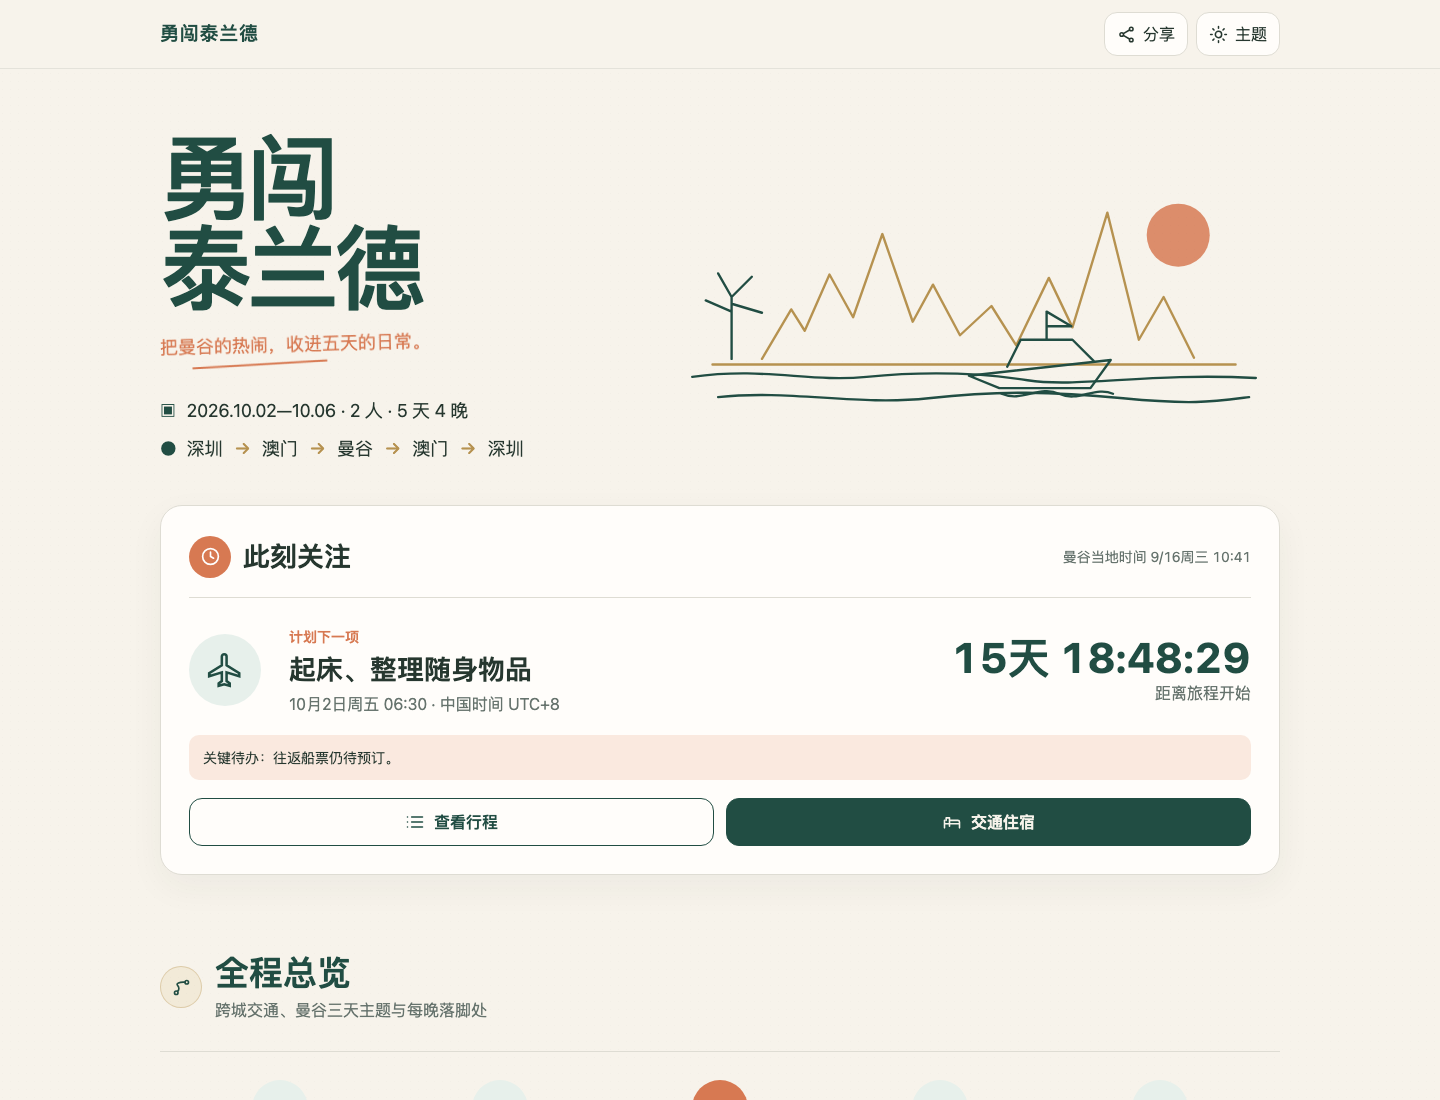
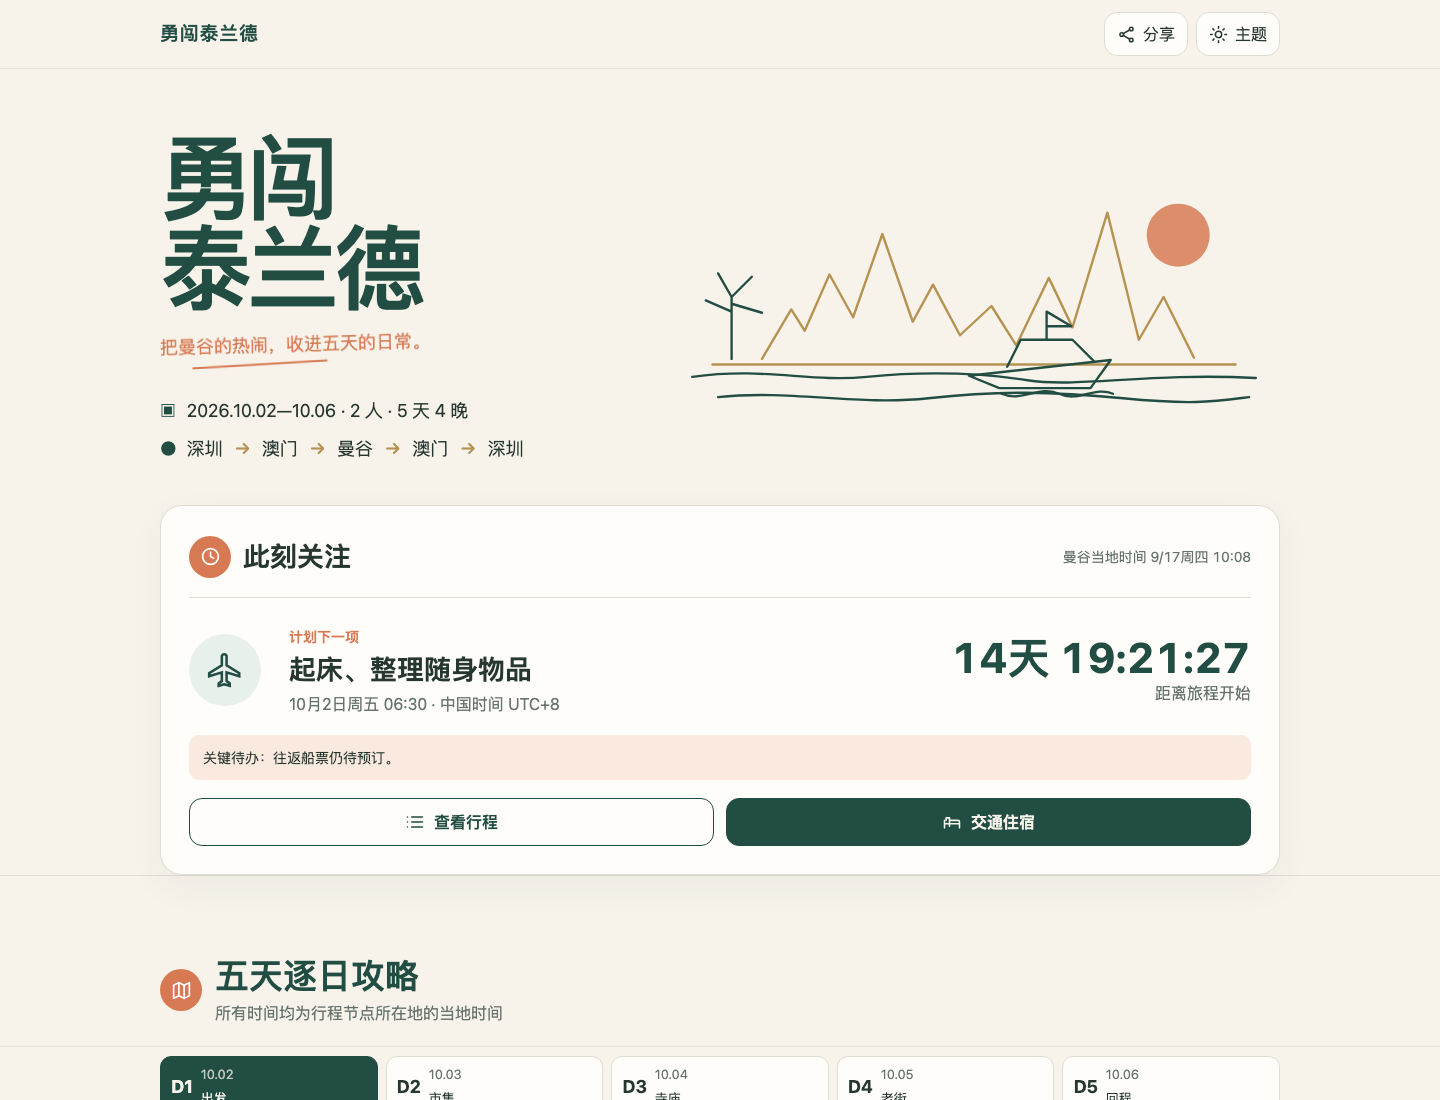
fix: 简化首页并修正手机导航
- 删除重复的全程总览模块
- 将五天逐日攻略移动到此刻关注之后
- 将底栏总览改为首页并修正滚动高亮
- 更新手机与桌面预览图及验收记录

diff --git a/index.html b/index.html
@@ -6,8 +6,8 @@
   <meta name="theme-color" content="#f7f3eb">
   <meta name="description" content="勇闯泰兰德——2026 年 10 月 2 日至 6 日，深圳、澳门与曼谷五天四晚旅行手册。">
   <title>勇闯泰兰德｜五天四晚旅行手册</title>
-  <link rel="stylesheet" href="styles.css?v=5">
-  <script src="app.js?v=5" defer></script>
+  <link rel="stylesheet" href="styles.css?v=6">
+  <script src="app.js?v=6" defer></script>
 </head>
 <body>
   <a class="skip-link" href="#main">跳到主要内容</a>
@@ -28,9 +28,9 @@
     <symbol id="i-chevron" viewBox="0 0 24 24"><path d="m9 18 6-6-6-6"/></symbol>
   </svg>
 
-  <header class="site-header" id="overview">
+  <header class="site-header">
     <div class="header-inner">
-      <a class="brand" href="#overview" aria-label="回到总览">勇闯泰兰德</a>
+      <a class="brand" href="#home" aria-label="回到首页">勇闯泰兰德</a>
       <div class="header-actions">
         <button class="icon-button" id="shareButton" type="button"><svg><use href="#i-share"/></svg><span>分享</span></button>
         <div class="theme-control">
@@ -46,7 +46,7 @@
   </header>
 
   <main id="main">
-    <section class="hero page-shell" aria-labelledby="hero-title">
+    <section class="hero page-shell" id="home" aria-labelledby="hero-title">
       <div class="hero-copy">
         <h1 id="hero-title">勇闯<br>泰兰德</h1>
         <p class="hero-note">把曼谷的热闹，收进五天的日常。</p>
@@ -91,65 +91,6 @@
           <a class="button primary" id="attentionMapLink" href="#transport"><svg><use href="#i-pin"/></svg>交通住宿</a>
         </div>
       </div>
-    </section>
-
-    <section class="overview-section page-shell section-block" aria-labelledby="route-title">
-      <div class="section-heading">
-        <span class="round-icon gold"><svg><use href="#i-route"/></svg></span>
-        <div><h2 id="route-title">全程总览</h2><p>跨城交通、曼谷三天主题与每晚落脚处</p></div>
-      </div>
-      <ol class="city-route" aria-label="城市路线示意，不代表真实比例">
-        <li><span class="city-icon">深</span><strong>深圳</strong><small>10.02 出发</small></li>
-        <li><span class="route-arrow">→</span><span class="city-icon">澳</span><strong>澳门</strong><small>10.02 中转</small></li>
-        <li class="active"><span class="route-arrow">→</span><span class="city-icon">曼</span><strong>曼谷</strong><small>10.02—10.06</small></li>
-        <li><span class="route-arrow">→</span><span class="city-icon">澳</span><strong>澳门</strong><small>10.06 返程</small></li>
-        <li><span class="route-arrow">→</span><span class="city-icon">深</span><strong>深圳</strong><small>10.06 抵达</small></li>
-      </ol>
-      <div class="bangkok-themes">
-        <article><span>D2 · 10.03</span><h3>市集与公园</h3><p>乍都乍淘货、古着商场、城市绿意</p></article>
-        <article><span>D3 · 10.04</span><h3>寺庙与河畔</h3><p>古城人文、渡船与湄南河日落</p></article>
-        <article><span>D4 · 10.05</span><h3>老街与咖啡</h3><p>Song Wat、Talat Noi、唐人街烟火</p></article>
-      </div>
-      <div class="night-strip"><svg><use href="#i-bed"/></svg><span>每晚住宿</span><strong>曼谷亚洲酒店 · 4 晚</strong><a href="#hotel-card">查看</a></div>
-    </section>
-
-    <section class="transport page-shell section-block" id="transport" aria-labelledby="transport-title">
-      <div class="section-heading">
-        <span class="round-icon gold"><svg><use href="#i-plane"/></svg></span>
-        <div><h2 id="transport-title">交通与住宿</h2><p>跨城节点与曼谷落脚处</p></div>
-      </div>
-
-      <div class="flight-ticket" aria-label="往返机票，已预订">
-        <div class="ticket-head"><strong>往返机票</strong><span class="status confirmed">已预订</span></div>
-        <article class="flight-leg">
-          <div class="leg-label"><span>去程</span><time datetime="2026-10-02">10 月 2 日</time></div>
-          <div class="airport"><small>澳门 MFM · UTC+8</small><strong>14:15</strong></div>
-          <div class="flight-line"><svg><use href="#i-plane"/></svg><span>FD763</span><small>2 小时 50 分</small></div>
-          <div class="airport right"><small>曼谷 DMK · UTC+7</small><strong>16:05</strong></div>
-        </article>
-        <article class="flight-leg">
-          <div class="leg-label"><span>回程</span><time datetime="2026-10-06">10 月 6 日</time></div>
-          <div class="airport"><small>曼谷 DMK · UTC+7</small><strong>10:00</strong></div>
-          <div class="flight-line"><svg><use href="#i-plane"/></svg><span>航班号待补</span><small>2 小时 45 分</small></div>
-          <div class="airport right"><small>澳门 MFM · UTC+8</small><strong>13:45</strong></div>
-        </article>
-      </div>
-
-      <article class="hotel-card" id="hotel-card">
-        <div class="hotel-art" aria-hidden="true"><svg viewBox="0 0 160 140"><path d="M34 120V28h78v92M25 120h104M48 45h12m14 0h12m14 0h12M48 64h12m14 0h12m14 0h12M48 83h12m14 0h12m14 0h12M66 120V99h18v21M18 120c8-24 16-32 24-38M126 120c-3-18-8-31-17-40"/></svg></div>
-        <div class="hotel-copy">
-          <div class="card-title-row"><div><small>酒店住宿</small><h3>曼谷亚洲酒店</h3><p>Asia Hotel Bangkok</p></div><span class="status confirmed">已预订</span></div>
-          <dl class="hotel-facts"><div><dt>入住</dt><dd>10 月 2 日 · 19:00 办理</dd></div><div><dt>退房</dt><dd>10 月 6 日 · 共 4 晚</dd></div><div><dt>同行</dt><dd>2 人</dd></div></dl>
-          <address>296 Thanon Phaya Thai, Ratchathewi, Bangkok 10400</address>
-          <div class="inline-actions"><button class="text-action" type="button" data-copy="Asia Hotel Bangkok\n296 Thanon Phaya Thai, Ratchathewi, Bangkok 10400">复制名称与地址</button><a class="text-action" href="https://www.google.com/maps/search/?api=1&query=Asia%20Hotel%20Bangkok" target="_blank" rel="noreferrer">地图导航</a><a class="text-action" href="tel:+6622170808">拨打电话</a></div>
-          <p class="verification-note">地址与电话请在出发前按最终订单再次核对。</p>
-        </div>
-      </article>
-
-      <article class="ferry-card">
-        <div class="ferry-title"><svg><use href="#i-boat"/></svg><div><h3>机场码头往返船班</h3><p>候选方案，实际班次与候船要求待核实</p></div><span class="status pending">待预订</span></div>
-        <div class="ferry-legs"><p><strong>去程 · 10.02</strong><span>08:45—10:05</span><small>深圳机场码头 → 澳门氹仔码头</small></p><p><strong>回程 · 10.06</strong><span>20:00—21:20</span><small>澳门氹仔码头 → 深圳机场码头</small></p></div>
-      </article>
     </section>
 
     <section class="daily-section" id="daily" aria-labelledby="daily-title">
@@ -264,6 +205,45 @@
       </div>
     </section>
 
+    <section class="transport page-shell section-block" id="transport" aria-labelledby="transport-title">
+      <div class="section-heading">
+        <span class="round-icon gold"><svg><use href="#i-plane"/></svg></span>
+        <div><h2 id="transport-title">交通与住宿</h2><p>跨城节点与曼谷落脚处</p></div>
+      </div>
+
+      <div class="flight-ticket" aria-label="往返机票，已预订">
+        <div class="ticket-head"><strong>往返机票</strong><span class="status confirmed">已预订</span></div>
+        <article class="flight-leg">
+          <div class="leg-label"><span>去程</span><time datetime="2026-10-02">10 月 2 日</time></div>
+          <div class="airport"><small>澳门 MFM · UTC+8</small><strong>14:15</strong></div>
+          <div class="flight-line"><svg><use href="#i-plane"/></svg><span>FD763</span><small>2 小时 50 分</small></div>
+          <div class="airport right"><small>曼谷 DMK · UTC+7</small><strong>16:05</strong></div>
+        </article>
+        <article class="flight-leg">
+          <div class="leg-label"><span>回程</span><time datetime="2026-10-06">10 月 6 日</time></div>
+          <div class="airport"><small>曼谷 DMK · UTC+7</small><strong>10:00</strong></div>
+          <div class="flight-line"><svg><use href="#i-plane"/></svg><span>航班号待补</span><small>2 小时 45 分</small></div>
+          <div class="airport right"><small>澳门 MFM · UTC+8</small><strong>13:45</strong></div>
+        </article>
+      </div>
+
+      <article class="hotel-card" id="hotel-card">
+        <div class="hotel-art" aria-hidden="true"><svg viewBox="0 0 160 140"><path d="M34 120V28h78v92M25 120h104M48 45h12m14 0h12m14 0h12M48 64h12m14 0h12m14 0h12M48 83h12m14 0h12m14 0h12M66 120V99h18v21M18 120c8-24 16-32 24-38M126 120c-3-18-8-31-17-40"/></svg></div>
+        <div class="hotel-copy">
+          <div class="card-title-row"><div><small>酒店住宿</small><h3>曼谷亚洲酒店</h3><p>Asia Hotel Bangkok</p></div><span class="status confirmed">已预订</span></div>
+          <dl class="hotel-facts"><div><dt>入住</dt><dd>10 月 2 日 · 19:00 办理</dd></div><div><dt>退房</dt><dd>10 月 6 日 · 共 4 晚</dd></div><div><dt>同行</dt><dd>2 人</dd></div></dl>
+          <address>296 Thanon Phaya Thai, Ratchathewi, Bangkok 10400</address>
+          <div class="inline-actions"><button class="text-action" type="button" data-copy="Asia Hotel Bangkok\n296 Thanon Phaya Thai, Ratchathewi, Bangkok 10400">复制名称与地址</button><a class="text-action" href="https://www.google.com/maps/search/?api=1&query=Asia%20Hotel%20Bangkok" target="_blank" rel="noreferrer">地图导航</a><a class="text-action" href="tel:+6622170808">拨打电话</a></div>
+          <p class="verification-note">地址与电话请在出发前按最终订单再次核对。</p>
+        </div>
+      </article>
+
+      <article class="ferry-card">
+        <div class="ferry-title"><svg><use href="#i-boat"/></svg><div><h3>机场码头往返船班</h3><p>候选方案，实际班次与候船要求待核实</p></div><span class="status pending">待预订</span></div>
+        <div class="ferry-legs"><p><strong>去程 · 10.02</strong><span>08:45—10:05</span><small>深圳机场码头 → 澳门氹仔码头</small></p><p><strong>回程 · 10.06</strong><span>20:00—21:20</span><small>澳门氹仔码头 → 深圳机场码头</small></p></div>
+      </article>
+    </section>
+
     <section class="preparation page-shell section-block" id="preparation" aria-labelledby="prep-title">
       <div class="section-heading">
         <span class="round-icon orange"><svg><use href="#i-check"/></svg></span>
@@ -311,7 +291,7 @@
   </main>
 
   <nav class="bottom-nav" aria-label="主要页面导航">
-    <a href="#overview" data-nav-section="overview"><svg><use href="#i-route"/></svg><span>总览</span></a>
+    <a href="#home" data-nav-section="home"><svg><use href="#i-route"/></svg><span>首页</span></a>
     <a href="#daily" data-nav-section="daily"><svg><use href="#i-list"/></svg><span>每日</span></a>
     <a href="#transport" data-nav-section="transport"><svg><use href="#i-bed"/></svg><span>交通住宿</span></a>
     <a href="#utility" data-nav-section="utility"><svg><use href="#i-info"/></svg><span>实用</span></a>

diff --git a/styles.css b/styles.css
@@ -133,22 +133,6 @@ svg { display: block; }
 .section-heading { margin-bottom: 28px; display: flex; align-items: center; gap: 13px; }
 .section-heading h2 { margin: 0; color: var(--green); font-size: clamp(26px, 3.5vw, 34px); line-height: 1.25; }
 .section-heading p { margin: 3px 0 0; color: var(--muted); }
-.city-route { margin: 0; padding: 28px 10px; display: grid; grid-template-columns: repeat(5, 1fr); list-style: none; border-block: 1px solid var(--border); }
-.city-route li { position: relative; min-width: 0; display: grid; justify-items: center; gap: 3px; text-align: center; }
-.city-route .city-icon { width: 56px; height: 56px; display: grid; place-items: center; color: var(--green); background: var(--green-soft); border-radius: 50%; font-weight: 800; }
-.city-route .active .city-icon { color: #fff; background: var(--orange); }
-.city-route strong { font-size: 18px; }
-.city-route small { color: var(--muted); }
-.route-arrow { position: absolute; left: -14px; top: 17px; color: var(--gold); font-size: 24px; }
-.bangkok-themes { margin-top: 26px; display: grid; grid-template-columns: repeat(3, 1fr); gap: 14px; }
-.bangkok-themes article { padding: 22px; border: 1px solid var(--border); border-radius: var(--radius); background: color-mix(in srgb, var(--surface) 75%, transparent); }
-.bangkok-themes span { color: var(--orange); font-size: 14px; font-weight: 700; }
-.bangkok-themes h3 { margin: 5px 0 4px; font-size: 20px; }
-.bangkok-themes p { margin: 0; color: var(--muted); }
-.night-strip { margin-top: 14px; min-height: 62px; padding: 10px 18px; display: flex; align-items: center; gap: 12px; border-radius: 13px; background: var(--green); color: var(--bg); }
-.night-strip svg { width: 22px; height: 22px; fill: none; stroke: currentColor; stroke-width: 1.8; }
-.night-strip strong { margin-left: auto; }
-.night-strip a { margin-left: 12px; }
 
 .transport { border-top: 1px solid var(--border); }
 .flight-ticket { overflow: hidden; border: 1px solid var(--border); border-radius: var(--radius); background: var(--surface); box-shadow: var(--shadow); }
@@ -343,12 +327,7 @@ details summary { cursor: pointer; }
   .attention-symbol svg { width: 29px; height: 29px; }
   .countdown-wrap { grid-column: 1 / -1; min-width: 0; padding-top: 13px; display: flex; justify-content: space-between; align-items: end; border-top: 1px solid var(--border); text-align: left; }
   .countdown { font-size: 28px; }
-  .city-route { overflow-x: auto; grid-template-columns: repeat(5, 112px); justify-content: start; scroll-snap-type: x proximity; scrollbar-width: none; }
-  .city-route::-webkit-scrollbar, .day-nav::-webkit-scrollbar { display: none; }
-  .city-route li { scroll-snap-align: center; }
-  .bangkok-themes { grid-template-columns: 1fr; }
-  .night-strip { align-items: flex-start; flex-wrap: wrap; }
-  .night-strip strong { order: 4; flex-basis: calc(100% - 34px); margin-left: 34px; }
+  .day-nav::-webkit-scrollbar { display: none; }
   .flight-leg { grid-template-columns: 64px 1fr 80px 1fr; padding: 18px 14px; gap: 7px; }
   .airport strong { font-size: 26px; }
   .flight-line::before, .flight-line::after { width: 15px; }

diff --git a/app.js b/app.js
@@ -245,9 +245,9 @@
   const dayLinks = $$('[data-day-link]');
   const bottomLinks = $$('[data-nav-section]');
   const sections = [
-    { id: 'overview', element: $('#overview') },
-    { id: 'transport', element: $('#transport') },
+    { id: 'home', element: $('#home') },
     { id: 'daily', element: $('#daily') },
+    { id: 'transport', element: $('#transport') },
     { id: 'utility', element: $('#utility') }
   ];
 
@@ -272,7 +272,7 @@
     sections.forEach(({ element }) => element && sectionObserver.observe(element));
     sectionObserver.observe($('#preparation'));
   } else {
-    setActiveBottom('overview');
+    setActiveBottom('home');
   }
 
   dayLinks.forEach((link) => link.addEventListener('click', () => setActiveDay(link.dataset.dayLink)));

diff --git a/DESIGN_QA.md b/DESIGN_QA.md
@@ -30,6 +30,7 @@
 | 手机底栏 | 四入口居中、选中态清楚 | 修复水平偏移；320／390／430px 无横向溢出 | 通过 |
 | 锚点与阅读状态 | 指定日期定位且标题不被遮挡 | 修复横向日期栏打断纵向定位；深链即时落位 | 通过 |
 | 每日地图路线 | 展开后应直接进入真实地图路线 | 使用 Google Maps Directions URL 写入起点、途经点和终点；跨境日与超出手机途经点上限的返程分段 | 通过 |
+| 手机首页动线 | 此刻关注后直接进入主要行程 | 删除重复的全程总览；逐日攻略前移到关注卡之后；底栏首项改为“首页”并准确返回顶部 | 通过 |
 
 ## 浏览器检查
 
